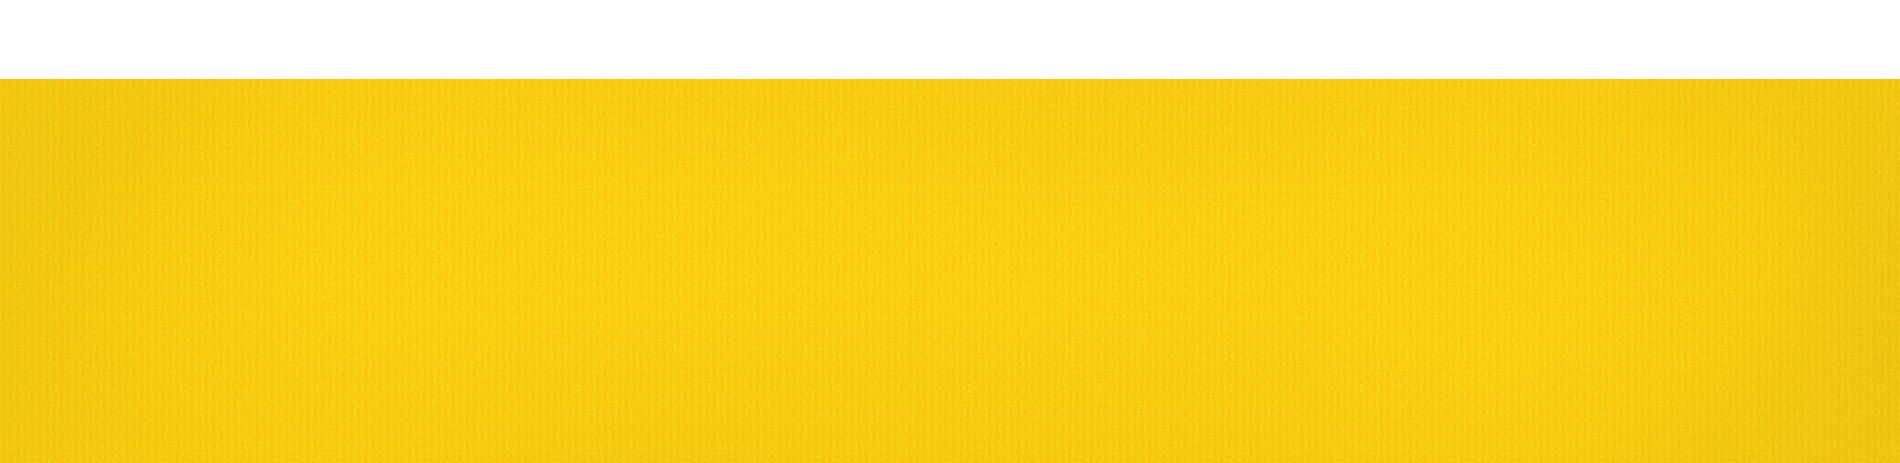
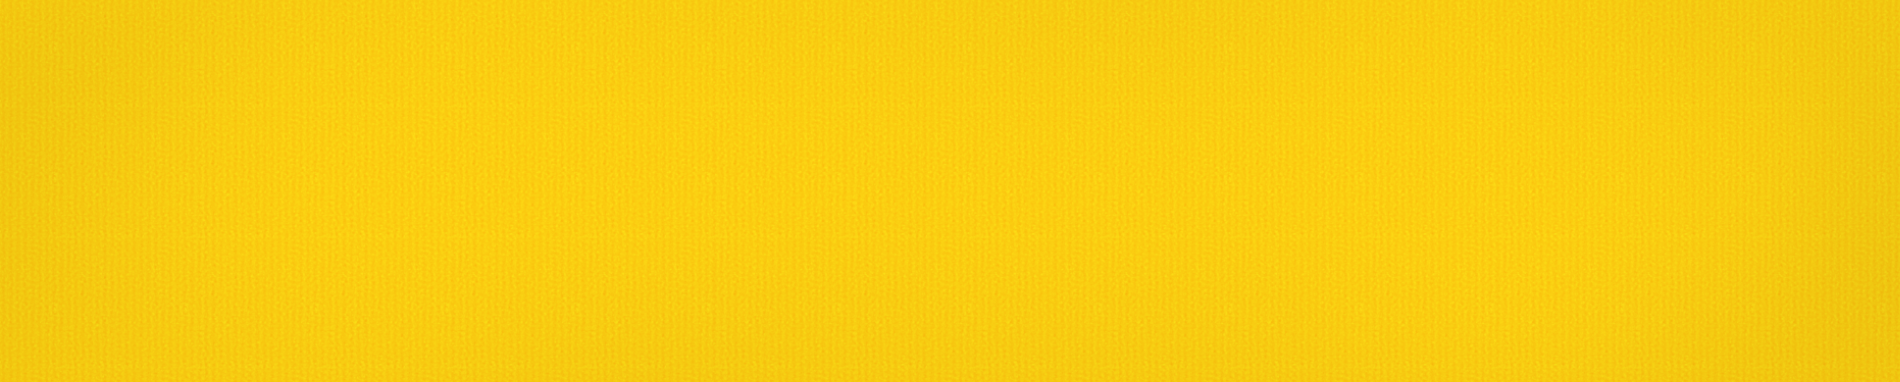
added yellow block

Changed region(s): [[0.0, 0.0, 1.0, 0.1728]]

diff --git a/index.html b/index.html
@@ -38,7 +38,41 @@
 	</header>
 
 	<main>
-		
+		<div class="yellow_block">
+			<div class="container">
+				<div class="col-md-17">
+					<div class="yellow_block_elements">
+						<div class="col-md-5">
+							<div class="yellow_block_item">
+								<div class="yellow_block_img">
+									<img src="images/noodle.png" alt="">
+								</div>
+								<h2 class="yellow_block_item_h2">Turnip greens</h2>
+								<p class="yellow_block_item_p">Lorem ipsum dolor sit amet, consectetur adipisc<br>Pellentesque vel enim a elit viverra elementuma.<br>Aliquam erat volutpat.</p>
+							</div>
+						</div>
+						<div class="col-md-5">
+							<div class="yellow_block_item">
+								<div class="yellow_block_img">
+									<img src="images/tea.png" alt="">
+								</div>
+								<h2 class="yellow_block_item_h2">Beetroot water</h2>
+								<p class="yellow_block_item_p">Lorem ipsum dolor sit amet, consectetur adipisc<br>Pellentesque vel enim a elit viverra elementuma.<br>Aliquam erat volutpat.</p>
+							</div>
+						</div>
+						<div class="col-md-5">
+							<div class="yellow_block_item">
+								<div class="yellow_block_img">
+									<img src="images/sweet.png" alt="">
+								</div>								
+								<h2 class="yellow_block_item_h2">GET SOCIAL</h2>
+								<p class="yellow_block_item_p">Lorem ipsum dolor sit amet, consectetur adipisc<br>Pellentesque vel enim a elit viverra elementuma.<br>Aliquam erat volutpat.</p>
+							</div>
+						</div>
+					</div>
+				</div>
+			</div> <!-- container -->
+		</div> <!-- yellow_block -->
 	</main>
 
 	<footer>

diff --git a/style.css b/style.css
@@ -3,6 +3,7 @@
 }
 
 body {
+	width: 100%;
 	font-family: 'Merriweather', serif;
 }
 
@@ -10,11 +11,11 @@ body {
 ======================================*/
 
 .header	{
-	width: 100%;
 	height: 970px;
 	display: flex;
 	justify-content: center;
-	background: url(images/header_vegetables.png);
+	background: url(images/header_vegetables.png) no-repeat;
+	background-size: 100% 100%;
 }
 
 .container {
@@ -33,6 +34,10 @@ body {
 
 .col-md-7 {
 	width: 40%;
+}
+
+.col-md-5 {
+	width: 30%;
 }
 
 .menu_list {
@@ -68,5 +73,49 @@ body {
 }
 
 
+/*Main
+======================================*/
 
+/*Yellow block
+======================================*/
+
+.yellow_block_elements {
+	display: flex;
+    width: 100%;
+    justify-content: space-between;
+    padding-top: 65px;
+}
+
+.yellow_block {
+	height: 385px;
+	display: flex;
+	justify-content: center;
+	background: url(images/yellow_background.png);
+	background-size: 100% 100%;
+}
+
+.yellow_block_item {
+	text-align: center;
+}
+
+.yellow_block_item_h2 {
+	text-transform: uppercase;
+	font-size: 18px;
+	font-weight: 700;
+	color: #3c3c3c;
+	margin-top: 35px;
+	margin-bottom: 30px;
+}
+
+.yellow_block_item_p {
+	color: #3c3c3c;
+	font-size: 16px;
+	font-weight: 300;
+	line-height: 1.5;
+}
+
+.yellow_block_img {
+	    line-height: 80px;
+    height: 80px;
+}
 
